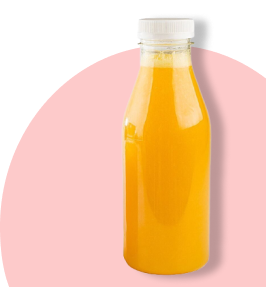
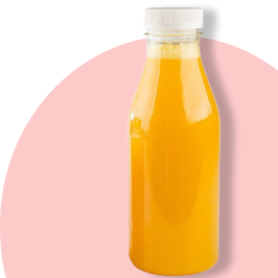
a

diff --git a/scss/desktop.css b/scss/desktop.css
@@ -55,8 +55,13 @@ body,
   flex-direction: column;
   justify-content: space-between;
 }
+.category_column_item .photo {
+  width: 70%;
+}
 .category_column_item img {
   width: 100%;
+  -o-object-fit: cover;
+     object-fit: cover;
 }
 .category_column_item span {
   margin-top: 25px;
@@ -64,22 +69,6 @@ body,
   font-weight: 500;
   font-size: 40px;
   color: #000000;
-}
-.category_column_item_f {
-  border: 1px solid #000000;
-  border-radius: 20px;
-  display: flex;
-  justify-content: space-between;
-}
-.category_column_item_f span {
-  margin-top: 25px;
-  display: inline-block;
-  font-weight: 500;
-  font-size: 40px;
-  color: #000000;
-}
-.category_column_item_f img {
-  border-radius: 20px;
 }
 
 .vk_testimonials {

diff --git a/scss/desktop.scss b/scss/desktop.scss
@@ -58,8 +58,12 @@ body,
     display: flex;
     flex-direction: column;
     justify-content: space-between;
+    .photo{
+      width: 70%;
+    }
     img{
       width: 100%;
+      object-fit: cover;
     }
     span{
       margin-top: 25px;
@@ -67,22 +71,6 @@ body,
       font-weight: 500;
       font-size: 40px;
       color: #000000;
-    }
-    &_f{
-      border: 1px solid #000000;
-      border-radius: 20px;
-      display: flex;
-      justify-content: space-between;
-      span{
-        margin-top: 25px;
-        display: inline-block;
-        font-weight: 500;
-        font-size: 40px;
-        color: #000000;
-      }
-      img{
-        border-radius: 20px;
-      }
     }
   }
 }

diff --git a/scss/helper.css b/scss/helper.css
@@ -52,6 +52,18 @@ svg {
   width: 33%;
 }
 
+.w-66 {
+  width: 66%;
+}
+
+.h-20 {
+  height: 20%;
+}
+
+.h-80 {
+  height: 80%;
+}
+
 .order-1 {
   order: 1;
 }
@@ -74,6 +86,10 @@ svg {
 
 .border-radius-20px {
   border-radius: 20px;
+}
+
+.border-bottom-right-radius-20px {
+  border-bottom-right-radius: 20px;
 }
 
 .pl-50px {

diff --git a/scss/helper.scss b/scss/helper.scss
@@ -47,6 +47,16 @@ svg{
 .w-33{
   width: 33%;
 }
+.w-66{
+  width: 66%;
+}
+
+.h-20{
+  height: 20%;
+}
+.h-80{
+  height: 80%;
+}
 
 .order-1{
   order: 1;
@@ -70,6 +80,9 @@ svg{
 
 .border-radius-20px{
   border-radius:20px;
+}
+.border-bottom-right-radius-20px{
+  border-bottom-right-radius: 20px;
 }
 
 .pl-50px{

diff --git a/index.php b/index.php
@@ -36,32 +36,38 @@
         </div>
       </a>
     </section>
-    <section data-aos="fade-up" class="categoty_columm d-flex gap-30px mt-30px h-730px">
-      <div class="w-33 d-flex column gap-30px">
-        <a class="category_column_item h-50">
-          <span class="text-c">Горячие роллы</span>
-          <div><img src="./image/category/003.png" alt=""></div>
-        </a>
-        <a style="background: #FDCACA;" class="category_column_item h-50">
-          <span class="pl-50px">Закуски</span>
-          <div class="d-flex j-c-c"><img src="./image/category/006.png" alt=""></div>
-        </a>
-      </div>
-      <div class="w-33 d-flex column">
-        <a class="category_column_item">
-          <span class="text-r pr-50px">Сеты</span>
-          <div class="d-flex j-c-c"><img src="./image/category/005.png" alt=""></div>
-        </a>
-      </div>
-      <div class="w-33 d-flex column gap-30px">
-        <a style="background: #CAD9FF;" class="category_column_item h-50">
-          <span class="text-c">Суши и гунканы</span>
-          <div class="d-flex j-c-c"><img src="./image/category/004.png" alt=""></div>
-        </a>
-        <a class="category_column_item h-50">
-          <span class="pl-50px">Напитки</span>
-          <div><img style="width: 230px; float:right;" src="./image/category/007.png" alt=""></div>
-        </a>
+    <section data-aos="fade-up" class="mt-30px">
+      <div class="d-flex m-column gap-30px">
+        <div class="d-flex gap-30px w-66">
+          <div class="w-50 d-flex column gap-30px">
+            <a class="category_column_item h-50">
+              <span class="text-c">Горячие роллы</span>
+              <div class="photo"><img src="./image/category/003.png" alt=""></div>
+            </a>
+            <a style="background: #FDCACA;" class="category_column_item h-50">
+              <span class="pl-50px">Закуски</span>
+              <div class="photo"><img src="./image/category/006.png" alt=""></div>
+            </a>
+          </div>
+          <div class="w-50 d-flex column">
+            <a class="category_column_item" style="height: 100%;">
+              <span class="text-r pr-50px">Сеты</span>
+              <div class="d-flex j-c-c"><img src="./image/category/005.png" alt=""></div>
+            </a>
+          </div>
+        </div>
+        <div class="w-33">
+          <div class="d-flex column gap-30px">
+            <a style="background: #CAD9FF;" class="category_column_item h-50">
+              <span class="text-c">Суши и гунканы</span>
+              <div class="photo"><img src="./image/category/004.png" alt=""></div>
+            </a>
+            <a class="category_column_item h-50">
+              <span class="pl-50px">Напитки</span>
+              <div class="photo"><img class="border-bottom-right-radius-20px j-c-e" style="float:right;" src="./image/category/007.png" alt=""></div>
+            </a>
+          </div>
+        </div>
       </div>
     </section>
     <section data-aos="fade-up" id="delivery" class="delivery mt-50px">
